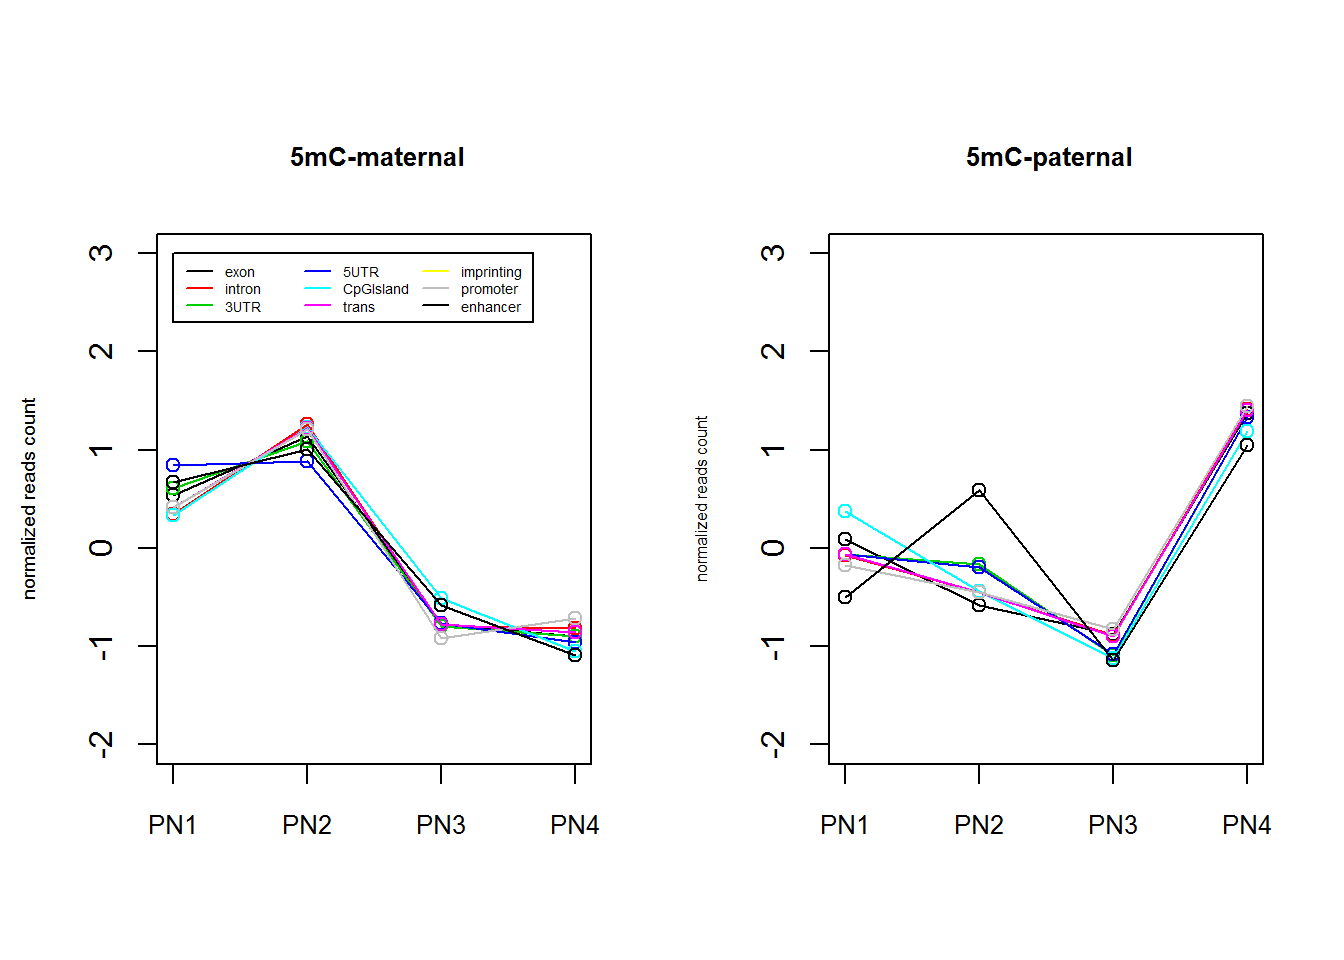
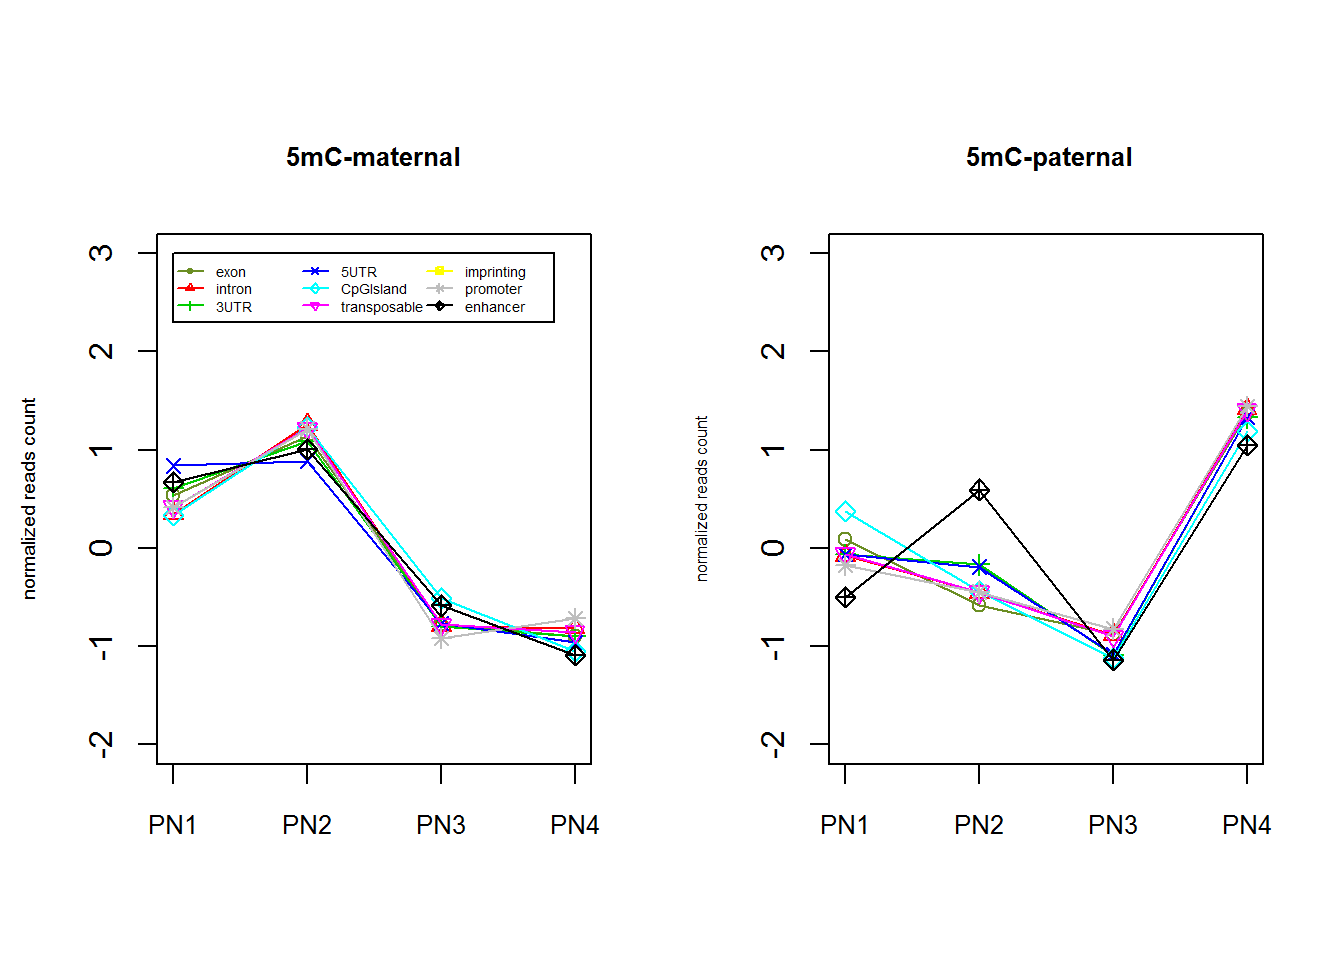
Jun222018

diff --git a/docs/PN-analysis.html b/docs/PN-analysis.html
@@ -314,10 +314,10 @@ div.tocify {
 shared across the workflowr files. -->
 <!-- Update knitr chunk options -->
 <!-- Insert the date the file was last updated -->
-<p><strong>Last updated:</strong> 2018-06-19</p>
+<p><strong>Last updated:</strong> 2018-06-22</p>
 <!-- Insert the code version (Git commit SHA1) if Git repository exists and R
  package git2r is installed -->
-<p><strong>Code version:</strong> 770f295</p>
+<p><strong>Code version:</strong> 562f8bb</p>
 <!-- Add your analysis here -->
 <div id="mouse-genome-mm9" class="section level2">
 <h2>mouse genome (mm9)</h2>
@@ -6958,6 +6958,9 @@ Glis3
 <div id="at-four-pn-stages" class="section level4">
 <h4>at four PN stages</h4>
 <p><img src="figure/PN-analysis.Rmd/unnamed-chunk-60-1.png" width="672" style="display: block; margin: auto;" /></p>
+<ul>
+<li>In every region, calulate the correlation in terms of number of reads across four stages, PN1, PN2, PN3, PN4. Transposable elemenets is excluded because of missing reads at certain stages.</li>
+</ul>
 </div>
 <div id="at-pn3-and-pn4" class="section level4">
 <h4>at PN3 and PN4</h4>

diff --git a/docs/Sample-with-spikein.html b/docs/Sample-with-spikein.html
@@ -314,10 +314,10 @@ div.tocify {
 shared across the workflowr files. -->
 <!-- Update knitr chunk options -->
 <!-- Insert the date the file was last updated -->
-<p><strong>Last updated:</strong> 2018-06-19</p>
+<p><strong>Last updated:</strong> 2018-06-20</p>
 <!-- Insert the code version (Git commit SHA1) if Git repository exists and R
  package git2r is installed -->
-<p><strong>Code version:</strong> 770f295</p>
+<p><strong>Code version:</strong> 562f8bb</p>
 <!-- Add your analysis here -->
 <p>All analysiz have been adjusted with spike in sample.</p>
 <div id="rep1-20180113" class="section level2">
